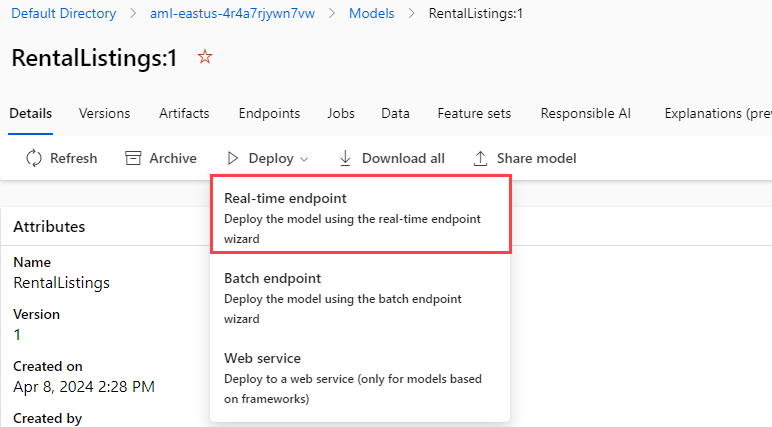
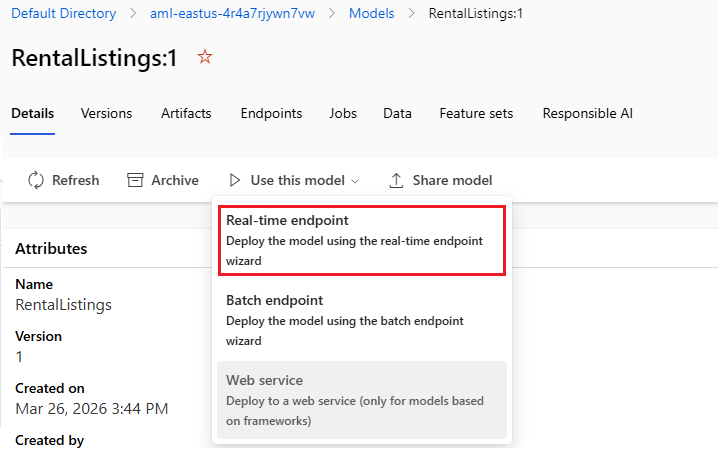
Added identity based roles section to the PostgreSQL ML lab

diff --git a/Instructions/Labs/15-perform-inference-azure-machine-learning.md b/Instructions/Labs/15-perform-inference-azure-machine-learning.md
@@ -147,6 +147,25 @@ The first step is to deploy a model to Azure Machine Learning. The repository co
 
 5. In the **Upload model** menu, set the model type to **MLflow**. Then, choose **Browse** and navigate to your **mlflow-model** folder, uploading the assets. After that, select the **Next** button to continue.
 
+    > [!Note]
+    >
+    > If your environment does not allow shared key access on storage accounts, you may receive an error when registering the model that states you don't have permissions to perform upload actions on the datastore. To resolve this, follow these steps:
+    >
+    > 1. First, assign the required identity-based roles on the workspace's storage account by running the following Azure CLI commands in the Cloud Shell:
+    >
+    >     ```bash
+    >     USER_ID=$(az ad signed-in-user show --query id -o tsv)
+    >     STORAGE_ID=$(az storage account show --name <storage_account_name> --resource-group $RG_NAME --query id -o tsv)
+    >     az role assignment create --assignee $USER_ID --role "Storage Blob Data Contributor" --scope $STORAGE_ID
+    >     az role assignment create --assignee $USER_ID --role "Storage File Data Privileged Contributor" --scope $STORAGE_ID
+    >     ```
+    >
+    >     Replace `<storage_account_name>` with the name of the storage account associated with your Azure Machine Learning workspace. You can find this in the Azure portal under your Machine Learning workspace's overview page.
+    >
+    > 2. Next, switch the workspace datastore to use identity-based authentication. In Azure ML Studio, go to **Data** > **Datastores** > **workspaceblobstore**, select **Update authentication**, and turn **off** the **"Save credentials with the datastore for data access"** toggle. Save the change.
+    >
+    > 3. Wait a few minutes for the permissions to propagate, then retry the model registration.
+
     ![Screenshot of the Upload model menu page. A red box surrounds the MLflow model type, Browse, and Next buttons.](media/19-aml-register-upload-model.png)
 
 6. Name the model **RentalListings** and then select the **Next** button.
@@ -159,15 +178,19 @@ The first step is to deploy a model to Azure Machine Learning. The repository co
 >
 > If you do not see a model, select the **Refresh** menu option button to reload the page. After that, you should see the **RentalListings** model.
 
-8. Select the **Deploy** button option and create a new **Real-time endpoint**.
+8. Select the **Use this model** button option and create a new **Real-time endpoint**.
 
     ![Screenshot of the Real-time endpoint menu option highlighted by a red box.](media/19-aml-automl-deploy-rte.png)
 
-9. On the deployment fly-out menu, set the **Virtual machine** to something like **Standard_DS2_v2** and the **Instance count** to 1. Select the **Deploy** button. Deployment may take several minutes to complete, as the deployment process includes provisioning a virtual machine and deploying the model as a Docker container.
+9. On the deployment fly-out menu, set the **Virtual machine** to something like **Standard_DS2_v2** and the **Instance count** to 1. Select the **Use this** button. Deployment may take several minutes to complete, as the deployment process includes provisioning a virtual machine and deploying the model as a Docker container.
 
     ![Screenshot of the deployment fly-out menu. The Virtual machine is Standard_DS2_v2, and the Instance count is 1. Red boxes highlight the Virtual machine drop-down, Instance count textbox, and Deploy button.](media/19-aml-automl-deploy-endpoint.png)
 
 10. After the endpoint deploys, navigate to the **Consume** tab and copy the REST endpoint and primary key so you can use them in the next section.
+
+    > [!Note]
+    >
+    > If the **Consume** tab does not appear, select **Endpoints** on the left-hand side menu, and then select your newly created endpoint. The **Consume** tab should then be visible.
 
     ![Screenshot of the endpoint Consume tab. Red boxes highlight the copy buttons for the REST endpoint and primary authentication key.](media/19-aml-automl-endpoint-consume.png)
 
@@ -201,19 +224,21 @@ The first step is to deploy a model to Azure Machine Learning. The repository co
 
 In this task, you connect to the `rentals` database on your Azure Database for PostgreSQL flexible server using the [psql command-line utility](https://www.postgresql.org/docs/current/app-psql.html) from the [Azure Cloud Shell](https://learn.microsoft.com/azure/cloud-shell/overview).
 
-1. In the [Azure portal](https://portal.azure.com/), navigate to your newly created Azure Database for PostgreSQL flexible server.
+1. In the [Azure portal](https://portal.azure.com/), open the Cloud Shell by selecting the **Cloud Shell** icon in the toolbar.
 
-2. In the resource menu, under **Settings**, select **Databases** select **Connect** for the `rentals` database. Note that selecting **Connect** does not actually connect you to the database; it simply provides instructions for connecting to the database using various methods. Review the instructions to **Connect from browser or locally** and use those to connect using the Azure Cloud Shell.
+2. Run the following command to connect to your `rentals` database, replacing `<server-name>` with the name of your PostgreSQL flexible server (found on the **Overview** page of your PostgreSQL resource in the Azure portal):
 
-    ![Screenshot of the Azure Database for PostgreSQL Databases page. Databases and Connect for the rentals database are highlighted by red boxes.](media/17-postgresql-rentals-database-connect.png)
+    ```bash
+    psql -h <server-name>.postgres.database.azure.com -U pgAdmin -d rentals
+    ```
 
-3. At the "Password for user pgAdmin" prompt in the Cloud Shell, enter the randomly generated password for the **pgAdmin** login.
+3. At the "Password for user pgAdmin" prompt in the Cloud Shell, enter the randomly generated password for the **pgAdmin** login you created during the Bicep deployment.
 
     Once logged in, the `psql` prompt for the `rentals` database is displayed.
 
 4. Throughout the remainder of this exercise, you continue working in the Cloud Shell, so it may be helpful to expand the pane within your browser window by selecting the **Maximize** button at the top right of the pane.
 
-    ![Screenshot of the Azure Cloud Shell pane with the Maximize button highlighted by a red box.](media/17-azure-cloud-shell-pane-maximize.png)
+    ![Screenshot of the Azure Cloud Shell pane with the Maximize button highlighted by a red box.](media/19-azure-cloud-shell-pane.png)
 
 ## Install and configure the `azure_ai` extension
 
